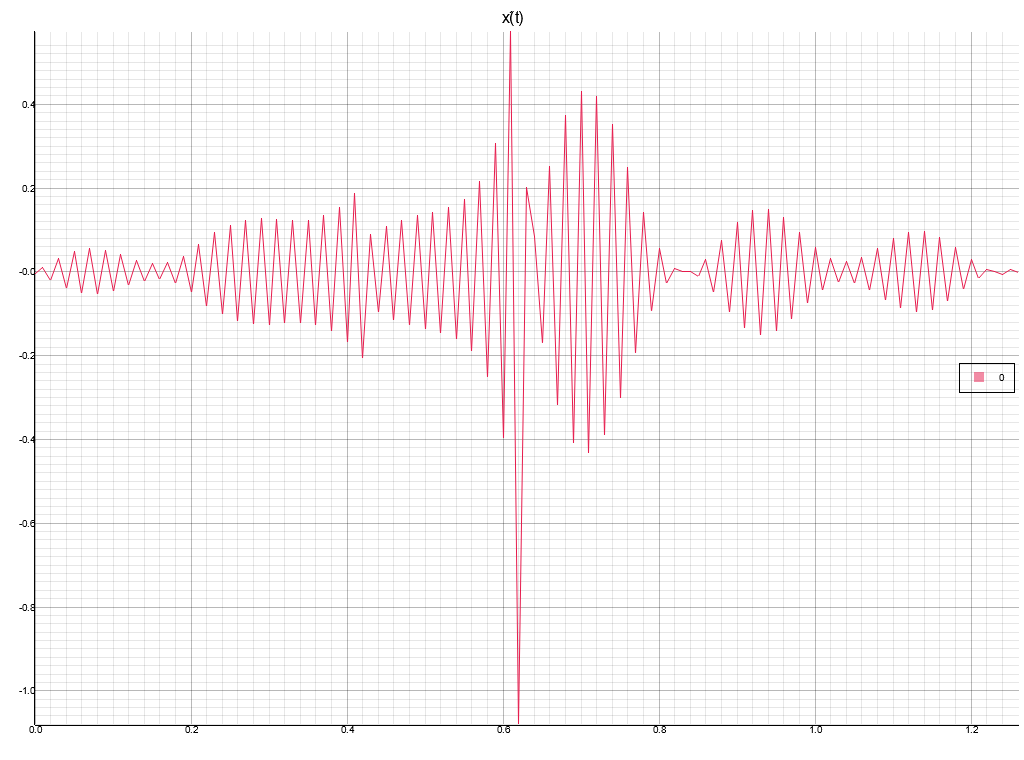
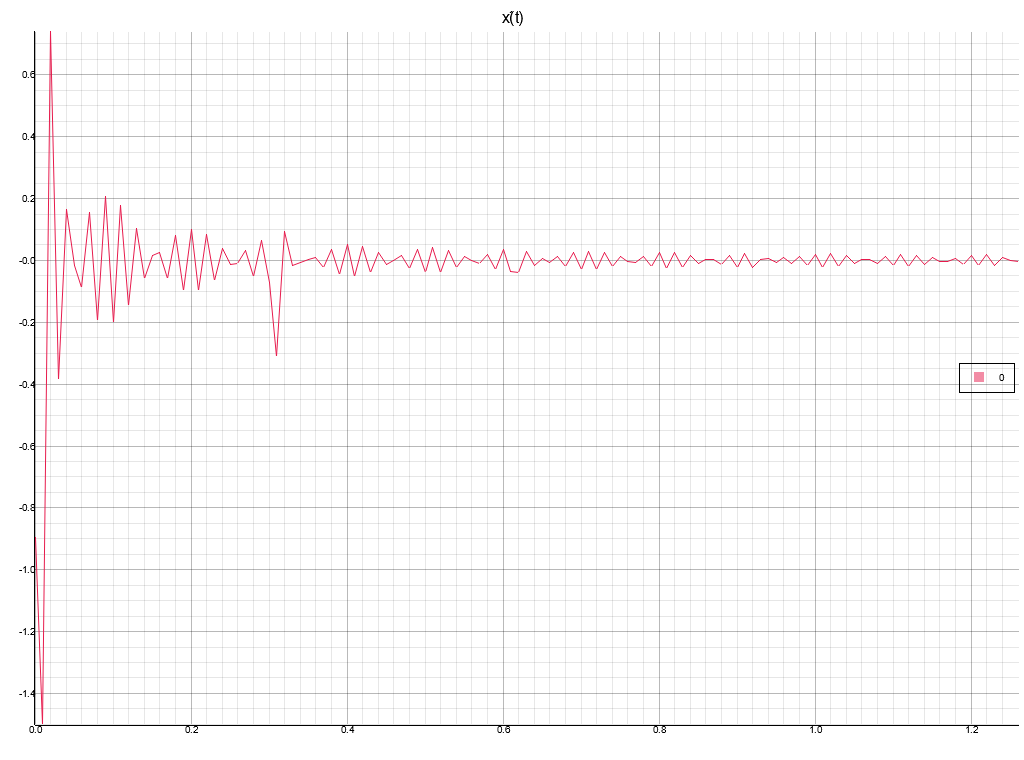
Add rceps

Changed region(s): [[0.0, 0.0303, 1.0, 0.9382]]

diff --git a/src/analysis/rceps.rs b/src/analysis/rceps.rs
@@ -1,0 +1,148 @@
+use core::{iter::Sum, ops::{AddAssign, Mul, MulAssign, SubAssign}};
+
+use num::{complex::ComplexFloat, traits::float::FloatConst, Complex, NumCast, One, Zero};
+use option_trait::{Maybe, StaticMaybe};
+use array_math::SliceMath;
+
+use crate::{CepsError, List, ListOrSingle, Lists, TruncateIm, MaybeLists};
+
+pub trait RCeps<'a, T, C, N>: Lists<T>
+where
+    T: ComplexFloat,
+    N: Maybe<usize>,
+    C: List<T>
+{
+    fn rceps<YM>(&'a self, numtaps: N) -> Result<(Self::RowsMapped<C>, YM), CepsError>
+    where
+        YM: StaticMaybe<Self::RowsMapped<C>>;
+}
+
+impl<'a, T, C, L> RCeps<'a, T, C, <C::Length as StaticMaybe<usize>>::Opposite> for L
+where
+    T: ComplexFloat + AddAssign + SubAssign + Into<Complex<T::Real>> + Mul<T::Real, Output = T> + 'static,
+    Complex<T::Real>: MulAssign + AddAssign,
+    T::Real: AddAssign + SubAssign + Sum + Into<Complex<T::Real>> + Into<T>,
+    L: Lists<T> + 'a + ?Sized,
+    C: List<T>,
+    Vec<T>: TryInto<C>,
+    <C::Length as StaticMaybe<usize>>::Opposite: Sized,
+    L::RowsMapped<C>: Lists<T, RowOwned: List<T>, RowsMapped<C>: Into<L::RowsMapped<C>>> + Clone,
+    L::RowView<'a>: List<T>
+{
+    fn rceps<YM>(&'a self, n: <C::Length as StaticMaybe<usize>>::Opposite) -> Result<(Self::RowsMapped<C>, YM), CepsError>
+    where
+        YM: StaticMaybe<Self::RowsMapped<C>>
+    {
+        let n = n.into_option()
+            .unwrap_or(C::LENGTH);
+
+        let y = self.try_map_rows_to_owned(|x| {
+            let x = x.as_view_slice();
+
+            let mut f: Vec<Complex<T::Real>> = x.iter()
+                .map(|&x| x.into())
+                .collect();
+
+            f.resize(n, Zero::zero());
+
+            let zero = T::Real::zero();
+            let half = n/2;
+            if 2*half == n && f.dtft(T::Real::TAU()*<T::Real as NumCast>::from(half + 1).unwrap()/<T::Real as NumCast>::from(n).unwrap()).re < zero {
+                f.pop();
+            }
+
+            f.fft();
+            if f.iter().any(|f| f.is_zero())
+            {
+                return Err(CepsError::ZeroInFourier)
+            }
+
+            for f in f.iter_mut()
+            {
+                *f = f.abs().ln().into();
+            }
+            f.ifft();
+
+            let zero = T::zero();
+            let mut y: Vec<_> = f.into_iter()
+                .take(n)
+                .map(|y| y.truncate_im())
+                .collect();
+            y.resize(n, zero);
+            Ok(y.try_into().ok().unwrap())
+        })?;
+
+        let one = T::Real::one();
+        let two = one + one;
+
+        let ym = YM::maybe_from_fn(|| y.clone().map_rows_into_owned(|y| {
+            let y = y.as_view_slice();
+
+            let mut ym: Vec<_> = if y.len() % 2 == 1
+            {
+                core::iter::once(y[0])
+                    .chain(y[1..y.len()/2 + 1].iter()
+                        .map(|&y| y*two)
+                    ).chain(vec![T::zero(); y.len()/2])
+                    .map(|y| y.into())
+                    .collect()
+            }
+            else
+            {
+                core::iter::once(y[0])
+                    .chain(y[1..y.len()/2].iter()
+                        .map(|&y| y*two)
+                    ).chain(core::iter::once(y[y.len()/2]))
+                    .chain(vec![T::zero(); y.len()/2 - 1])
+                    .map(|y| y.into())
+                    .collect()
+            };
+
+            ym.fft();
+
+            for y in ym.iter_mut()
+            {
+                *y = (*y).exp()
+            }
+
+            ym.ifft();
+
+            let zero = T::zero();
+            let mut ym: Vec<_> = ym.into_iter()
+                .take(n)
+                .map(|y| y.truncate_im())
+                .collect();
+            ym.resize(n, zero);
+            ym.try_into().ok().unwrap()
+        }).into());
+
+        Ok((y, ym))
+    }
+}
+
+#[cfg(test)]
+mod test
+{
+    use core::f64::consts::TAU;
+
+    use array_math::ArrayOps;
+    use linspace::LinspaceArray;
+
+    use crate::{plot, RCeps};
+
+    #[test]
+    fn test()
+    {
+        const T: f64 = 1.27;
+        const N: usize = (T/0.01) as usize;
+        let t: [_; N] = (0.0..T).linspace_array();
+
+        let d = (N as f64*0.3/T) as usize;
+        let s1 = t.map(|t| (TAU*45.0*t).sin());
+        let s2 = s1.add_each(ArrayOps::fill(|i| if i >= d {0.5*s1[i - d]} else {0.0}));
+
+        let (c, ym): ([_; _], _) = s2.rceps(()).unwrap();
+
+        plot::plot_curves("x̂(t), y_m(t)", "plots/x_hat_rceps.png", [&t.zip(c), &t.zip(ym)]).unwrap()
+    }
+}

diff --git a/src/analysis/cceps.rs b/src/analysis/cceps.rs
@@ -8,7 +8,7 @@ use thiserror::Error;
 use crate::{List, ListOrSingle, Lists, TruncateIm};
 
 #[derive(Debug, Clone, Copy, PartialEq, Error)]
-pub enum CCepsError
+pub enum CepsError
 {
     #[error("Sequence has one or more zero-valued fourier coefficient.")]
     ZeroInFourier
@@ -17,9 +17,10 @@ pub enum CCepsError
 pub trait CCeps<'a, T, C, N>: Lists<T>
 where
     T: ComplexFloat,
-    N: Maybe<usize>
+    C: List<T>,
+    N: Maybe<usize>,
 {
-    fn cceps(&'a self, numtaps: N) -> Result<Self::RowsMapped<C>, CCepsError>;
+    fn cceps(&'a self, numtaps: N) -> Result<Self::RowsMapped<C>, CepsError>;
 }
 
 impl<'a, T, C, L> CCeps<'a, T, C, <C::Length as StaticMaybe<usize>>::Opposite> for L
@@ -33,7 +34,7 @@ where
     <C::Length as StaticMaybe<usize>>::Opposite: Sized,
     L::RowView<'a>: List<T>
 {
-    fn cceps(&'a self, n: <C::Length as StaticMaybe<usize>>::Opposite) -> Result<Self::RowsMapped<C>, CCepsError>
+    fn cceps(&'a self, n: <C::Length as StaticMaybe<usize>>::Opposite) -> Result<Self::RowsMapped<C>, CepsError>
     {
         let n = n.into_option()
             .unwrap_or(C::LENGTH);
@@ -56,7 +57,7 @@ where
             f.fft();
             if f.iter().any(|f| f.is_zero())
             {
-                return Err(CCepsError::ZeroInFourier)
+                return Err(CepsError::ZeroInFourier)
             }
 
             let mut f_arg_prev = T::Real::zero();
@@ -94,7 +95,6 @@ where
             }
             f.rotate_left(n/2);
             f.ifft();
-            f.rotate_right(n/2);
 
             let zero = T::zero();
             let mut y: Vec<_> = f.into_iter()
@@ -114,7 +114,6 @@ mod test
 
     use array_math::ArrayOps;
     use linspace::LinspaceArray;
-    use num::Complex;
 
     use crate::{plot, CCeps};
 
@@ -125,12 +124,12 @@ mod test
         const N: usize = (T/0.01) as usize;
         let t: [_; N] = (0.0..T).linspace_array();
 
-        let d = (N as f64*0.2/T) as usize;
+        let d = (N as f64*0.3/T) as usize;
         let s1 = t.map(|t| (TAU*45.0*t).sin());
         let s2 = s1.add_each(ArrayOps::fill(|i| if i >= d {0.5*s1[i - d]} else {0.0}));
 
-        let c: [_; _] = s2.map(|s| Complex::from(s)).cceps(()).unwrap();
+        let c: [_; _] = s2.cceps(()).unwrap();
 
-        plot::plot_curves("x̂(t)", "plots/x_hat_cceps.png", [&t.zip(c.map(|c| c.re))]).unwrap()
+        plot::plot_curves("x̂(t)", "plots/x_hat_cceps.png", [&t.zip(c)]).unwrap()
     }
 }

diff --git a/src/analysis/mod.rs b/src/analysis/mod.rs
@@ -21,11 +21,12 @@ moddef::moddef!(
         peak_to_rms,
         phasez,
         pwelch,
+        rceps,
         real_freqz,
         real_mscohere,
         real_phasez,
         real_pwelch,
         real_specgram,
-        specgram,
+        specgram
     }
 );
